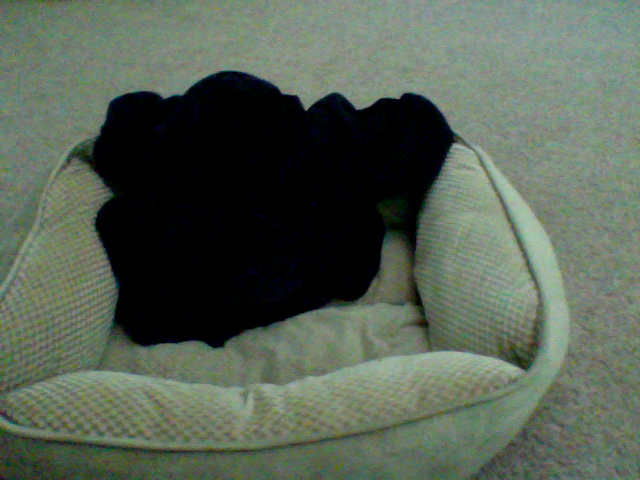
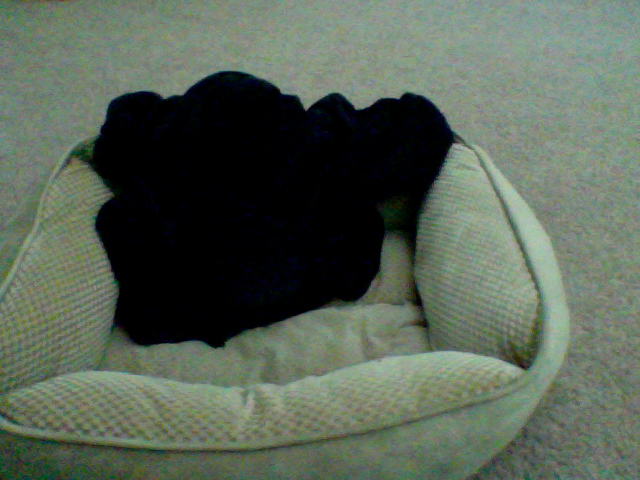
update at Month05Day08Time14:08

diff --git a/index.html b/index.html
@@ -39,8 +39,8 @@
       <!-- Example row of columns -->
       <div class="row">
         <div class="col-md-4">
-	<p>This picture was updated at Month05Day08Time14:07</p>
-		<img src="9_pic.png" />
+	<p>This picture was updated at Month05Day08Time14:08</p>
+		<img src="1_pic.png" />
         </div>
       </div>
 
